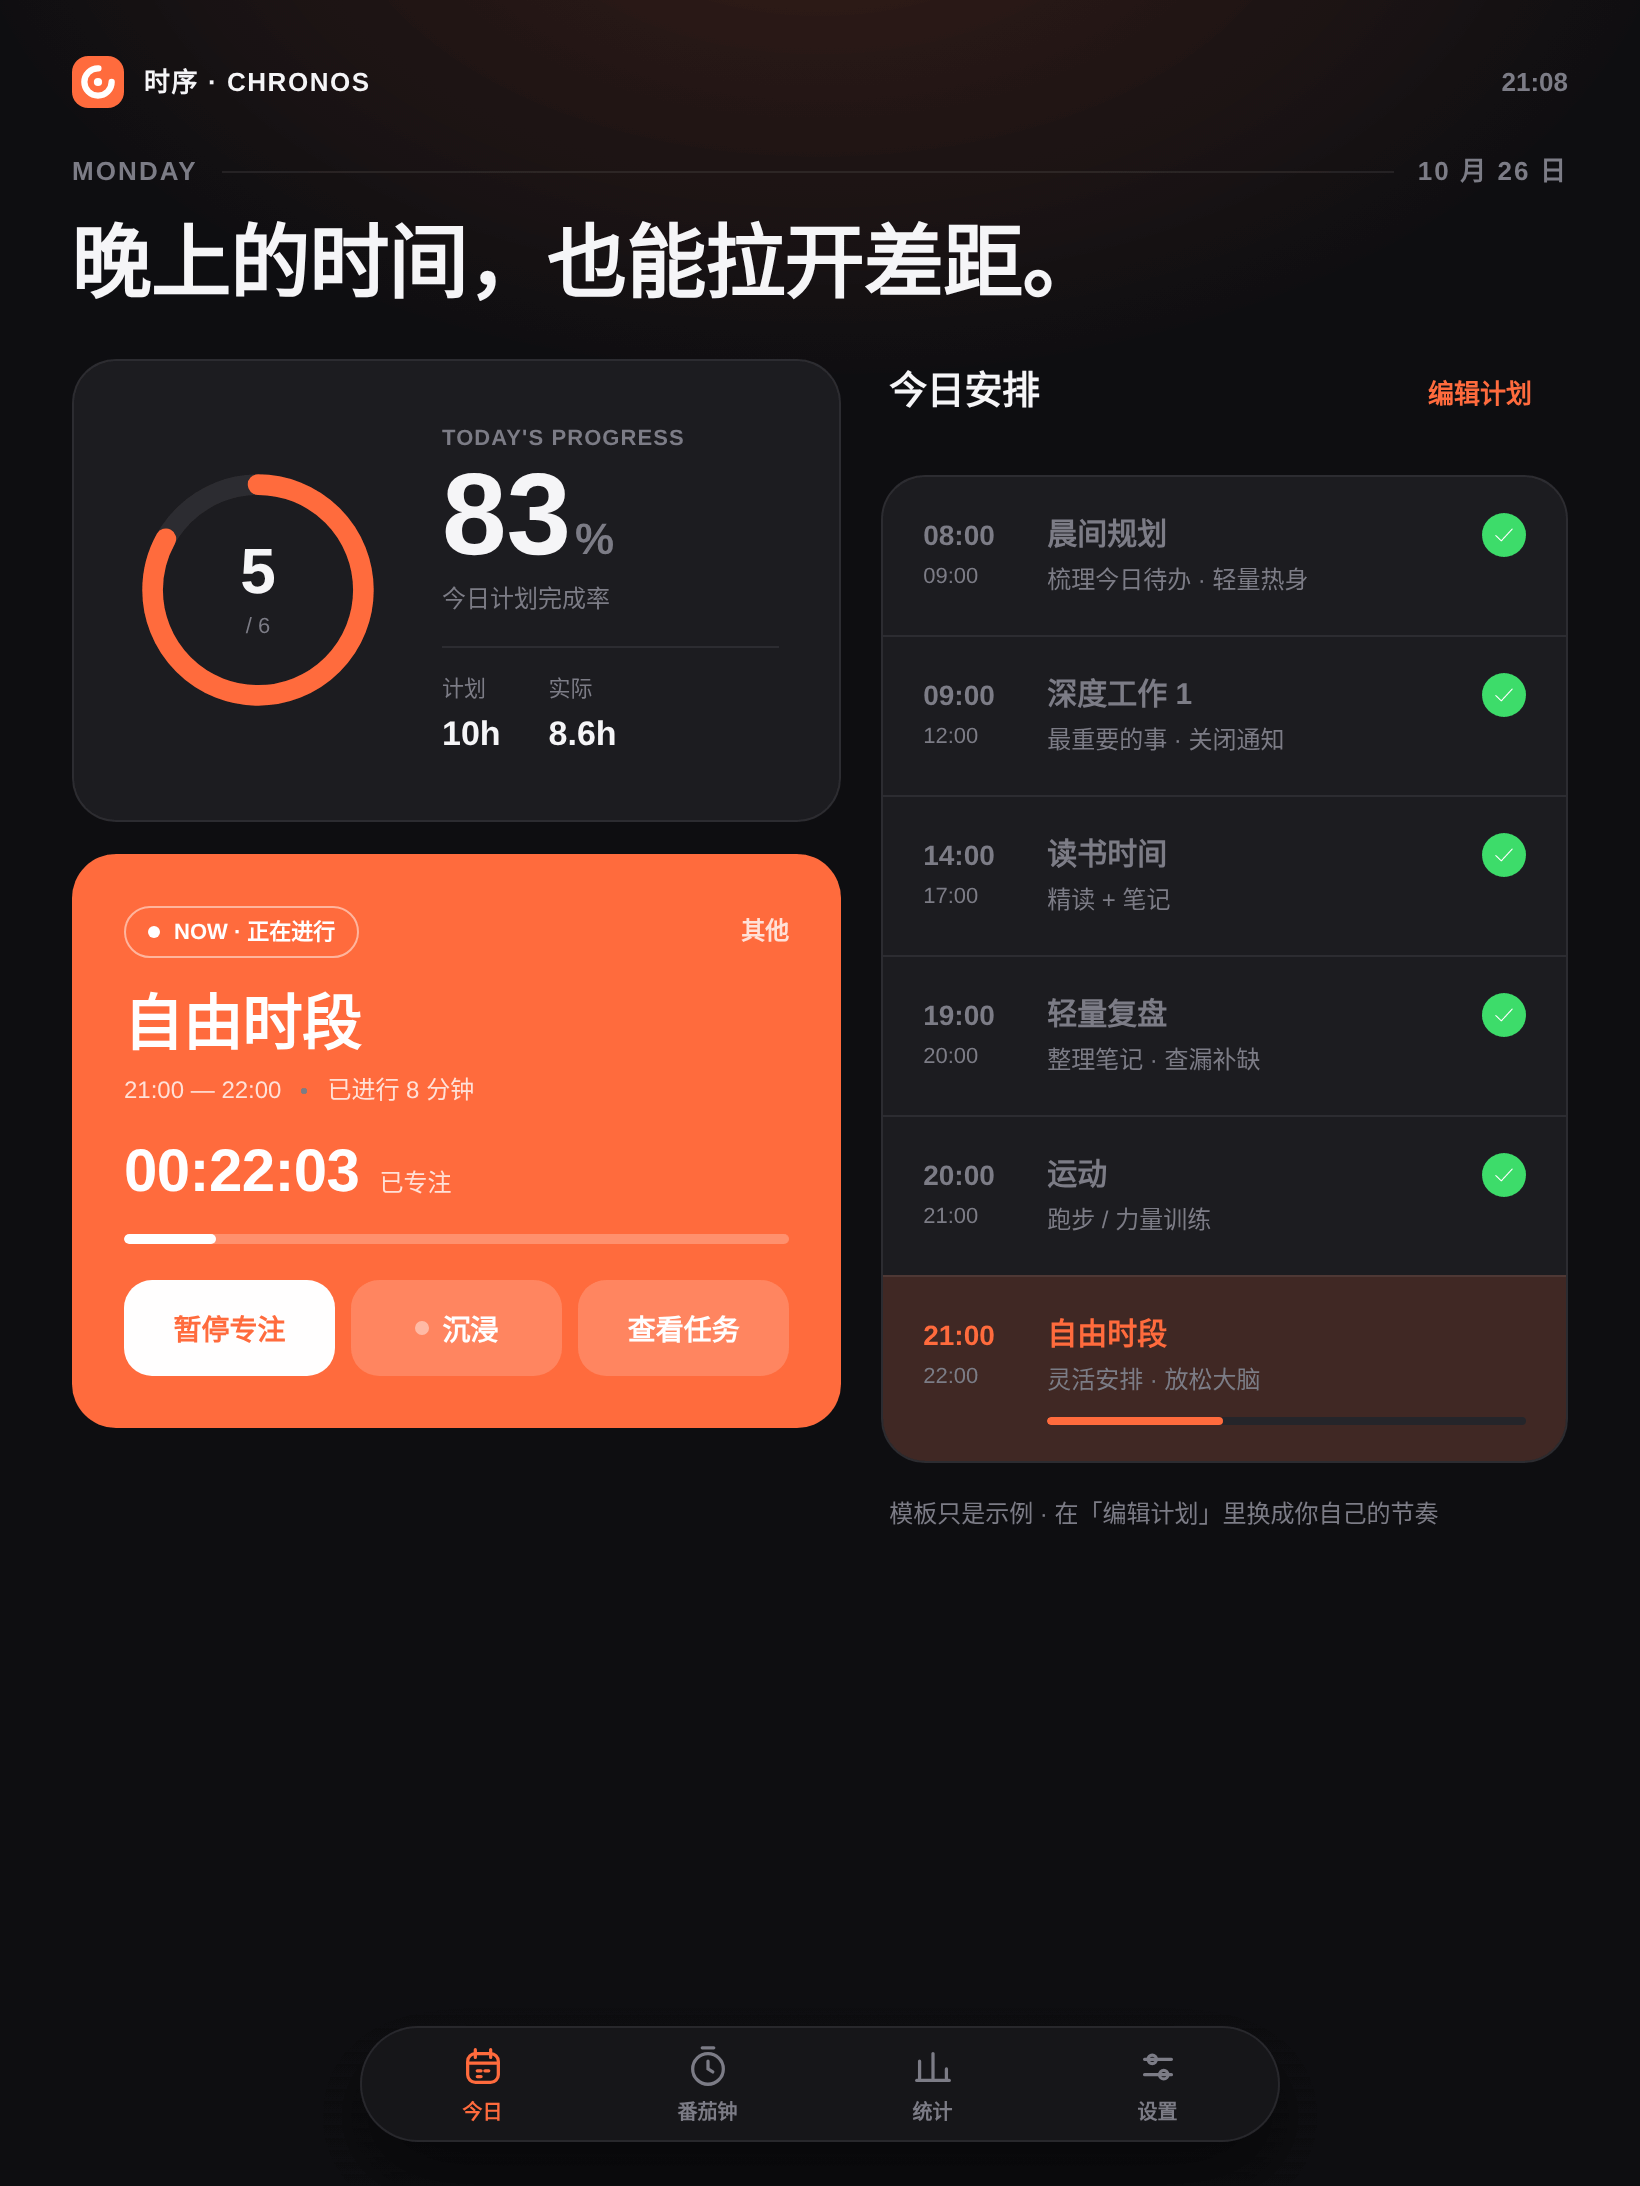
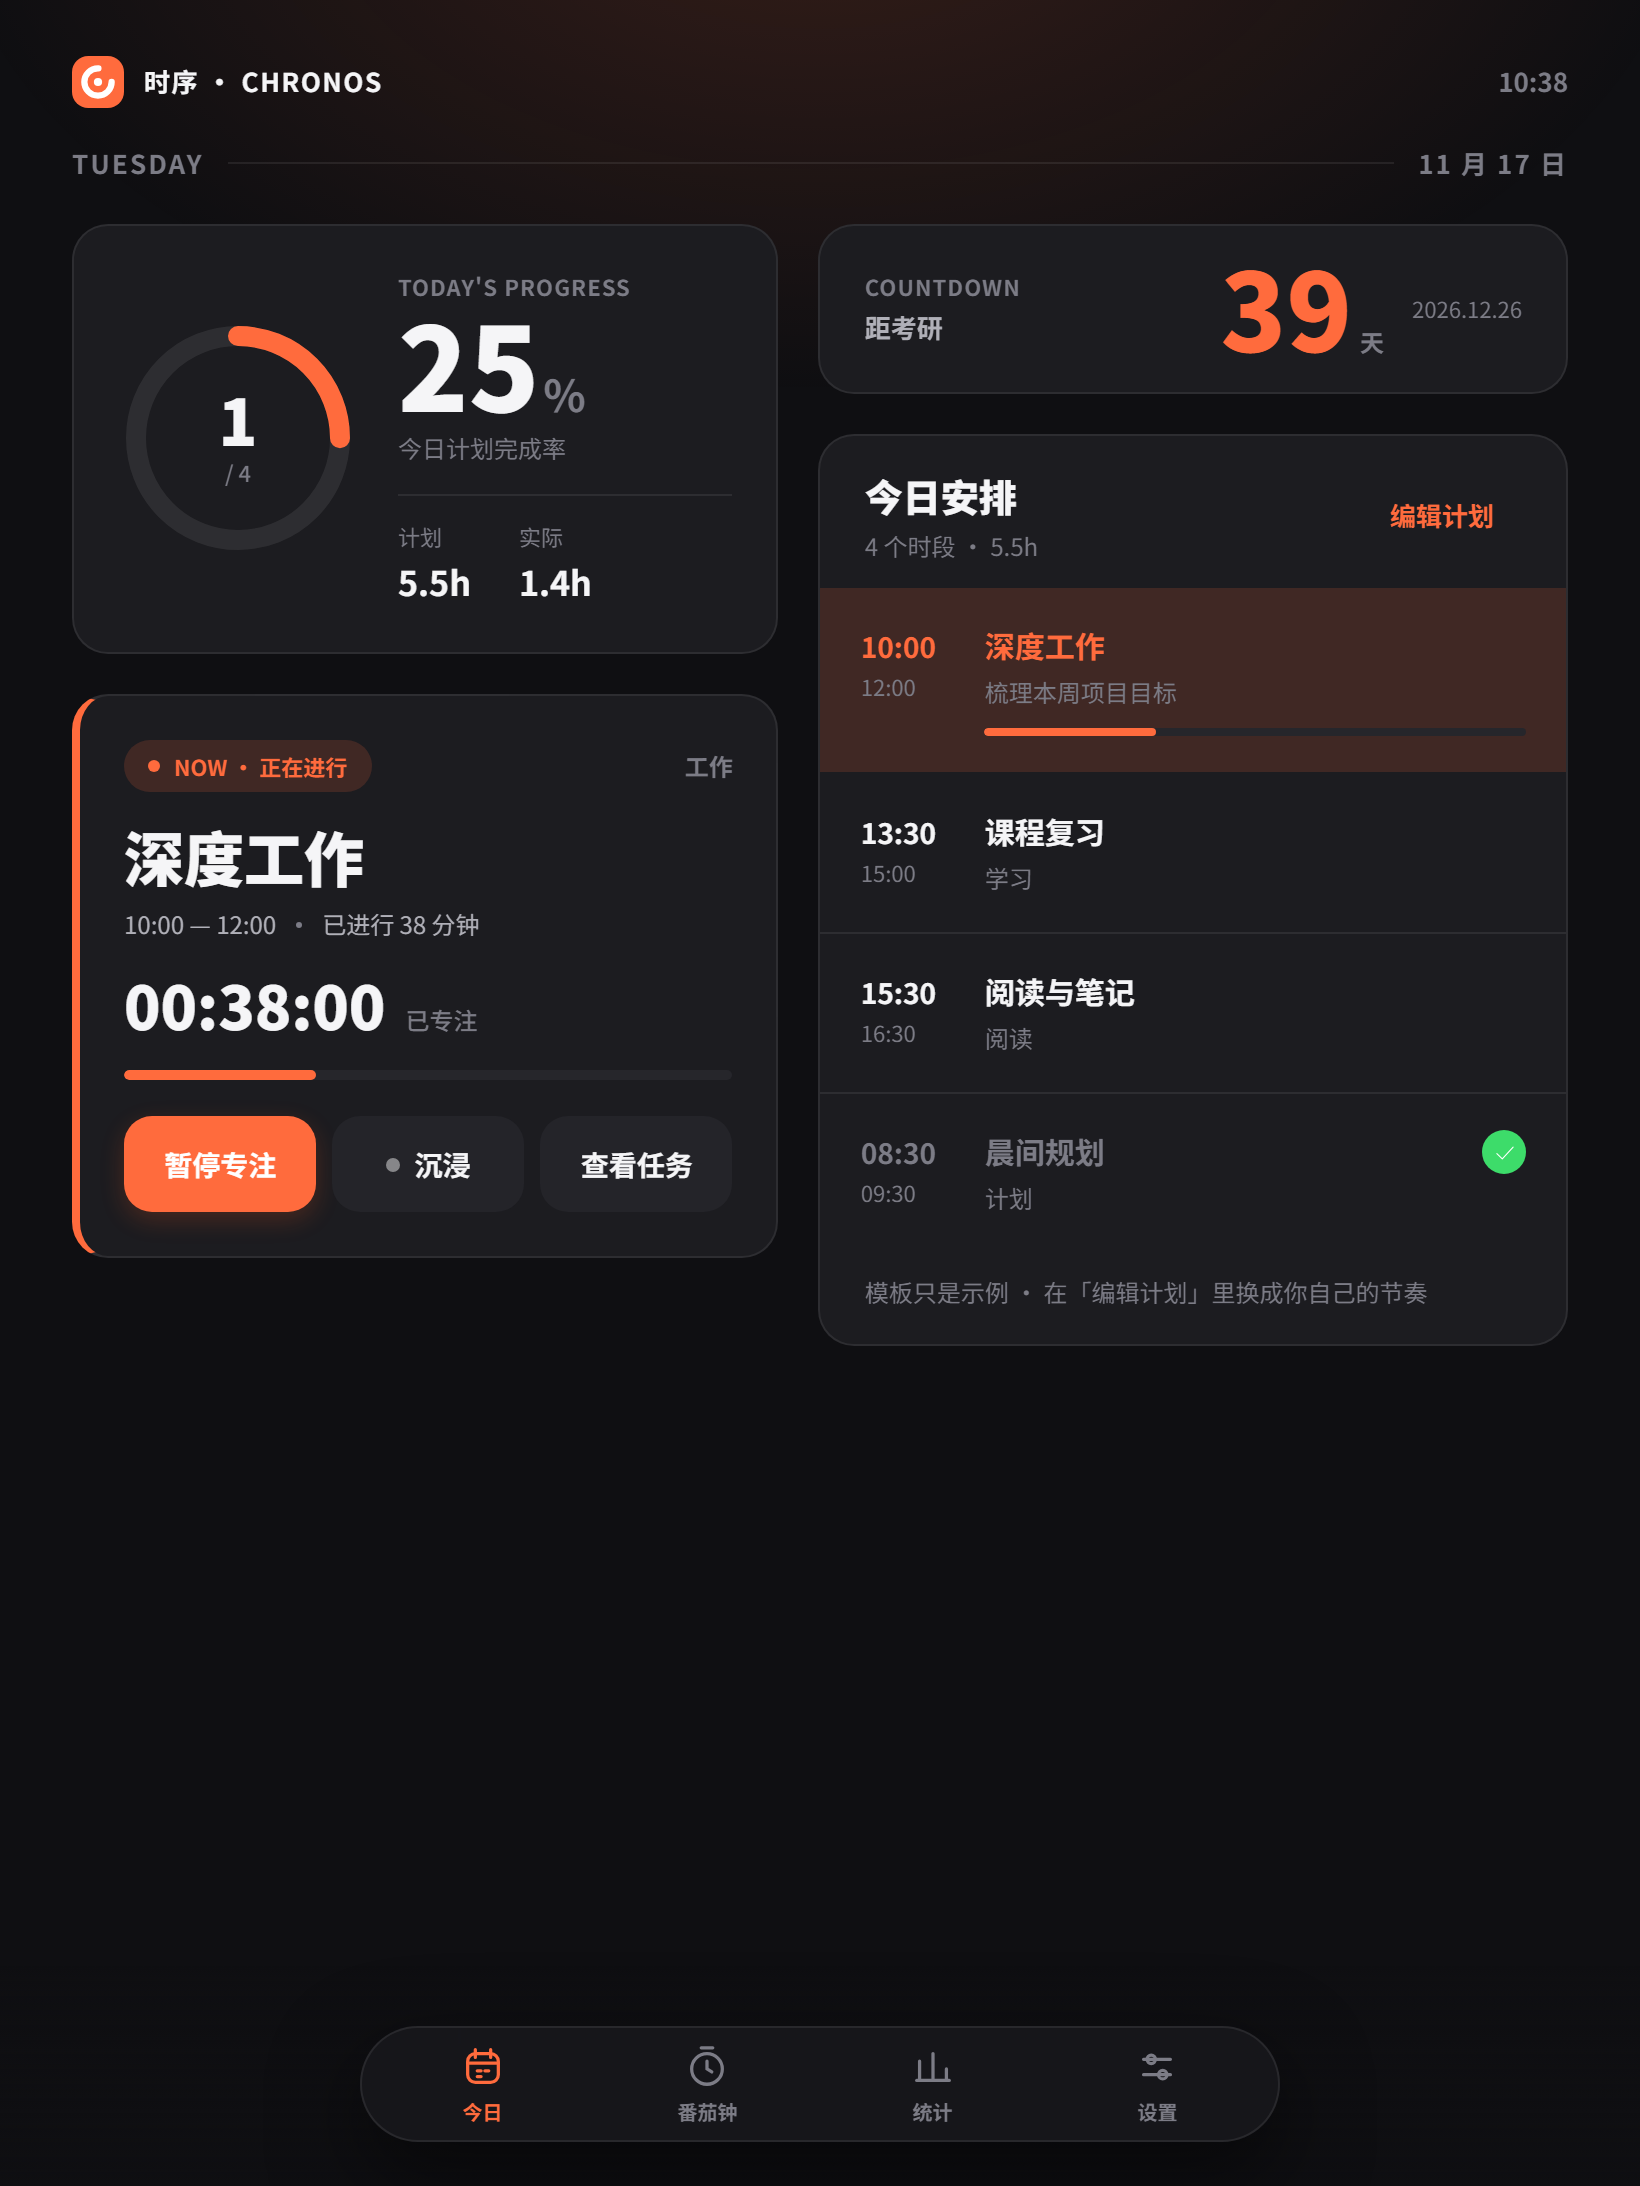
docs: refresh screenshots and add English README

diff --git a/README.en.md b/README.en.md
@@ -1,0 +1,230 @@
+# Chronos
+
+<div align="center">
+
+<img src="docs/img/logo.svg" width="112" alt="Chronos" />
+
+<p><a href="README.md">简体中文</a></p>
+
+### Give every moment a clear direction
+
+A local-first time management app for study, work, and long-term goals. Plan your day, focus on the current block, and review your progress over time.
+
+<p>
+  <a href="https://github.com/Dvesiz/chronos/releases/latest/download/Chronos-2.7.13.apk"><strong>Download Android APK</strong></a>
+  ·
+  <a href="https://dvesiz.github.io/chronos/app/"><strong>Try in your browser</strong></a>
+  ·
+  <a href="https://dvesiz.github.io/chronos/"><strong>Product website</strong></a>
+</p>
+
+[![Version](https://img.shields.io/badge/version-2.7.13-FF5A1F?style=flat-square)](https://github.com/Dvesiz/chronos/releases/tag/v2.7.13)
+[![Android](https://img.shields.io/badge/Android-8.0%2B-3DDC84?style=flat-square&logo=android&logoColor=white)](https://github.com/Dvesiz/chronos/releases/latest)
+[![Pages](https://img.shields.io/github/actions/workflow/status/Dvesiz/chronos/pages.yml?branch=main&label=GitHub%20Pages&style=flat-square)](https://github.com/Dvesiz/chronos/actions/workflows/pages.yml)
+[![Release](https://img.shields.io/github/actions/workflow/status/Dvesiz/chronos/release.yml?branch=main&label=release&style=flat-square)](https://github.com/Dvesiz/chronos/actions/workflows/release.yml)
+[![License](https://img.shields.io/github/license/Dvesiz/chronos?style=flat-square)](LICENSE)
+
+</div>
+
+<div align="center">
+
+<p><strong>Tablet and desktop</strong></p>
+<img src="docs/img/home.png" width="31%" alt="Chronos daily plan on tablet and desktop" />
+<img src="docs/img/focus.png" width="31%" alt="Chronos focus timer on tablet and desktop" />
+<img src="docs/img/stats.png" width="31%" alt="Chronos statistics on tablet and desktop" />
+
+<p><strong>Phone</strong></p>
+<img src="docs/img/home-mobile.png" width="18%" alt="Chronos daily plan on a phone" />
+<img src="docs/img/focus-mobile.png" width="18%" alt="Chronos focus timer on a phone" />
+<img src="docs/img/stats-mobile.png" width="18%" alt="Chronos statistics on a phone" />
+
+</div>
+
+## Product
+
+Chronos is more than a to-do list. It organizes the day into actionable time blocks and connects planning, focus, tracking, and review:
+
+```text
+Plan  ->  Focus  ->  Track  ->  Review
+```
+
+- **Local-first:** Core planning, timers, and statistics work without an account or network connection.
+- **Low distraction:** The interface keeps the current task in view and reveals detailed controls when needed.
+- **Progress over time:** Daily effort, completion rates, check-ins, reviews, and goal progress stay visible.
+
+## Features
+
+### Daily planning
+
+- Create a daily schedule from a reusable template.
+- Delay, shorten, split, skip, resume, or add time blocks as your day changes.
+- Carry unfinished tasks forward with a prompt to schedule them in an open slot.
+- Record completed blocks, focus time, and streaks with daily check-ins.
+
+### Focus
+
+- Pomodoro countdown and count-up modes, with configurable durations and optional break transitions.
+- Independent task timers with pause, resume, and accumulated focus time.
+- A minimal focus view keeps the timer, current task, and essential controls on screen.
+- Android Focus Guard can show an overlay when you leave Chronos. Alarms, calls, emergency calls, and permission prompts are allowed through.
+
+### Statistics and reviews
+
+- 7-day and 30-day trends, category breakdowns, completion rates, and plan comparisons.
+- Monthly check-in calendar with daily effort levels.
+- Daily reflections and shareable weekly summaries.
+- Weekly goals, streaks, accumulated hours, and Pomodoro milestones.
+
+### Android integration
+
+- Minute-accurate schedule reminders rebuilt after reboot and time-zone changes.
+- Start a focus session or snooze from notifications.
+- 2×2 home-screen widget with daily progress, the next task, and a countdown.
+- Countdown for exams, presentations, and project deadlines.
+- Light, dark, and system-following themes; landscape layouts, safe areas, and responsive phone/tablet layouts.
+
+## Platform support
+
+| Capability | Android APK | Browser app |
+|:---|:---:|:---:|
+| Plans, templates, focus, statistics, check-ins, and reviews | Yes | Yes |
+| JSON import and export | Yes | Yes |
+| Local-first storage | Yes | Yes |
+| Optional email sign-in and multi-device sync | Yes | Yes |
+| System notifications and precise alarms | Yes | Browser-limited |
+| Home-screen widget | Yes | N/A |
+| Focus Guard and foreground service | Yes | N/A |
+
+The browser app shares the APK's static UI and core logic. Install the Android APK for system notifications, precise alarms, widgets, or Focus Guard.
+
+## Download and try
+
+### Android APK
+
+[Download Chronos 2.7.13](https://github.com/Dvesiz/chronos/releases/latest/download/Chronos-2.7.13.apk) · [All releases](https://github.com/Dvesiz/chronos/releases)
+
+Android 8.0 or later is required. The APK is built without Gradle. When installing it from a file for the first time, allow your file manager to install unknown apps when Android prompts you.
+
+### Browser app
+
+[Open the browser app](https://dvesiz.github.io/chronos/app/) · [Product website](https://dvesiz.github.io/chronos/)
+
+Browser data stays in the current browser. Export a JSON backup before clearing site data.
+
+## Data and sync
+
+### Local storage
+
+The main application state uses IndexedDB (`chronos-state-v1`). If IndexedDB is unavailable or a write fails, Chronos falls back to `localStorage`; Android also keeps a native bridge backup. State loads and saves pass through schema migrations, currently at business schema v3.
+
+JSON import and export remain available in the app. Import replaces the current state after saving a local backup. Uninstalling the app removes local data, so export a backup before changing devices.
+
+### Optional cloud sync
+
+After email verification, Chronos can sync plans, timers, statistics, and reviews between Android and the browser through Cloudflare Workers and D1. The sync protocol includes:
+
+- Account-scoped events, queues, snapshots, and revision metadata.
+- An IndexedDB Outbox (`chronos-sync-v1`) with a `localStorage` compatibility fallback.
+- Revision checks and idempotency keys for concurrent submissions.
+- Deletion tombstones to stop removed entities from returning from another device.
+- Device cursors and safe event archival based on the slowest active device.
+- Versioned snapshots with schema metadata and checksums.
+- Per-event accepted, conflict, or rejected results; unresolved events remain on the device.
+- Exponential retry after network errors without blocking offline use.
+
+Sync is optional. Local plans, timers, statistics, and JSON backups continue to work when signed out, offline, or without an API configuration. API secrets stay in Worker secrets and are not included in the frontend, APK, or repository.
+
+## Build from source
+
+### Requirements
+
+- JDK 11 or later; GitHub Actions uses JDK 17.
+- Android SDK Platform 35.
+- Android Build-Tools 35.0.0 or a compatible newer version.
+- Git Bash, WSL, or another Bash environment for `build.sh`.
+- Node.js 22 or later for tests and the Worker.
+
+### Build the APK
+
+```bash
+git clone https://github.com/Dvesiz/chronos.git
+cd chronos
+./build.sh
+```
+
+The APK is written to `build/Chronos-x.x.x.apk`. Its version comes from `versionName` in `app/src/main/AndroidManifest.xml` and is copied into the frontend configuration during the build.
+
+The default Android SDK path is `/opt/android-sdk`. Override it when needed:
+
+```bash
+ANDROID_SDK=/path/to/android-sdk \
+ANDROID_BUILD_TOOLS=/path/to/build-tools/35.0.0 \
+ANDROID_JAR=/path/to/platforms/android-35/android.jar \
+./build.sh
+```
+
+The first build creates a local `keystore.jks` and `keystore.properties`; neither is committed. Keep the same signing key when publishing APK updates so Android can install them over existing copies.
+
+### Run tests
+
+```bash
+cd backend
+npm ci
+npm run test:all
+```
+
+Tests cover frontend state migrations, primary IndexedDB storage, the sync Outbox, Web Locks, multi-tab sync, time and statistics logic, and Worker revision, idempotency, conflict, tombstone, device cursor, and archival behavior.
+
+### Run the Worker locally
+
+```bash
+cd backend
+npm run dev
+```
+
+See [`backend/README.md`](backend/README.md) for database migrations and deployment. Production APK releases use GitHub Actions: push a `v*` tag matching the manifest version to run tests, build a signed APK, and upload it to GitHub Releases.
+
+## Project structure
+
+```text
+chronos/
+├── app/src/main/
+│   ├── assets/www/                 # Framework-free HTML, CSS, and JavaScript app
+│   │   ├── app.js                  # State, planning, timers, statistics, and UI
+│   │   ├── cloud-sync.js           # Optional account and sync client
+│   │   ├── browser-adapter.js      # Browser-specific adapter
+│   │   └── cloud-config.js         # Release API configuration
+│   ├── java/com/dvesiz/chronos/    # Android WebView host and system integrations
+│   └── res/                        # Icons, themes, notifications, and widget assets
+├── backend/                        # Cloudflare Worker, D1 API, and migrations
+├── site/                           # Product website
+├── tests/                          # Frontend, sync protocol, and browser E2E tests
+├── docs/img/                       # README screenshots and brand assets
+├── build.sh                        # aapt2, javac, d8, zipalign, and apksigner
+└── LICENSE
+```
+
+The app is built with native Java and WebView, without Gradle or a frontend framework runtime. The same core UI and logic are shared between the browser and Android app.
+
+## Release notes
+
+| Version | Highlights |
+|:---|:---|
+| **2.7.13** | Prevents stale startup state from replacing a running cloud timer; syncs task fields by stable ID; removes page headlines and adds system-following themes. |
+| **2.7.12** | Forces snapshot reconciliation when the local sync cursor is stale, including manual sync, resume, and network recovery. |
+| **2.7.10** | Fixes startup sync baselines and adds visible sync status with a manual sync action. |
+| **2.7.9** | Recovers stuck queues from earlier versions and fixes startup reconciliation races. |
+| **2.7.8** | Rebases and retries queued events after stale revision conflicts. |
+| **2.7.7** | Adds Pomodoro count-up mode, tablet settings fixes, and schema v3 local persistence. |
+| **2.7.0** | Adds email sign-in, multi-device sync, feedback, and release checks with Cloudflare Workers and D1. |
+| **2.6.x** | Adds the browser app, data import/export, check-ins, reviews, goals, widgets, statistics, and Focus Guard. |
+| **2.0.0** | Introduces the visual redesign and orange accent color. |
+| **1.0.0** | First release with schedule templates, a timeline, focus timers, and system reminders. |
+
+## Contributing
+
+Report issues and suggestions through [GitHub Issues](https://github.com/Dvesiz/chronos/issues), or submit a Pull Request. Before submitting code, run `cd backend && npm run test:all`; UI changes should also be checked on phone and tablet layouts.
+
+## License
+
+Chronos is released under the [MIT License](LICENSE). You are welcome to use, study, modify, and distribute it.

diff --git a/README.md b/README.md
@@ -4,6 +4,8 @@
 
 <img src="docs/img/logo.svg" width="112" alt="时序 · Chronos" />
 
+<p><a href="README.en.md">English README</a></p>
+
 ### 让每一段时间，都有明确的方向
 
 为学习、工作与长期目标打造的本地优先时间管理应用。用计划确定方向，用专注完成当下，用复盘看见长期变化。
@@ -26,9 +28,15 @@
 
 <div align="center">
 
+<p><strong>平板与桌面端</strong></p>
 <img src="docs/img/home.png" width="31%" alt="Chronos 今日计划" />
 <img src="docs/img/focus.png" width="31%" alt="Chronos 番茄钟" />
 <img src="docs/img/stats.png" width="31%" alt="Chronos 数据统计" />
+
+<p><strong>手机端</strong></p>
+<img src="docs/img/home-mobile.png" width="18%" alt="Chronos 手机端今日计划" />
+<img src="docs/img/focus-mobile.png" width="18%" alt="Chronos 手机端专注计时" />
+<img src="docs/img/stats-mobile.png" width="18%" alt="Chronos 手机端数据统计" />
 
 </div>
 
